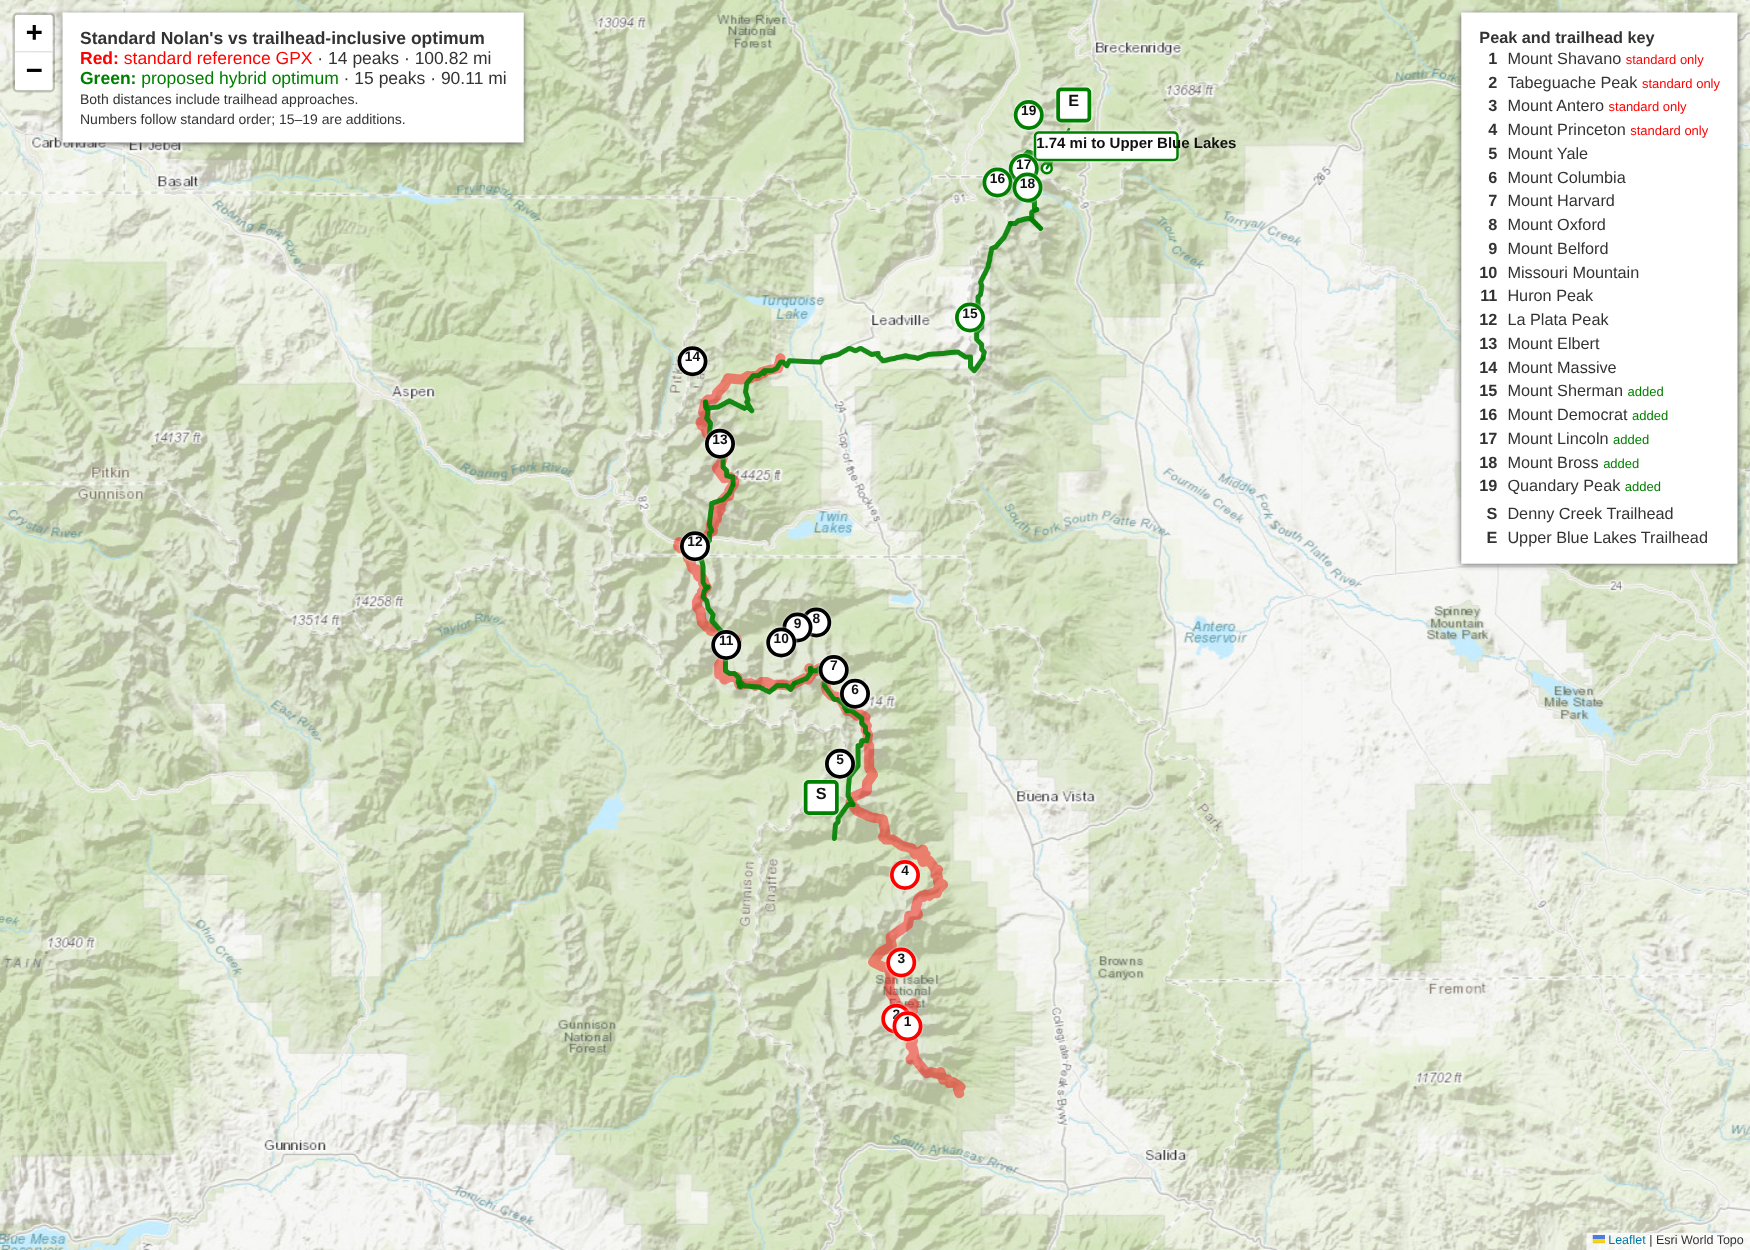
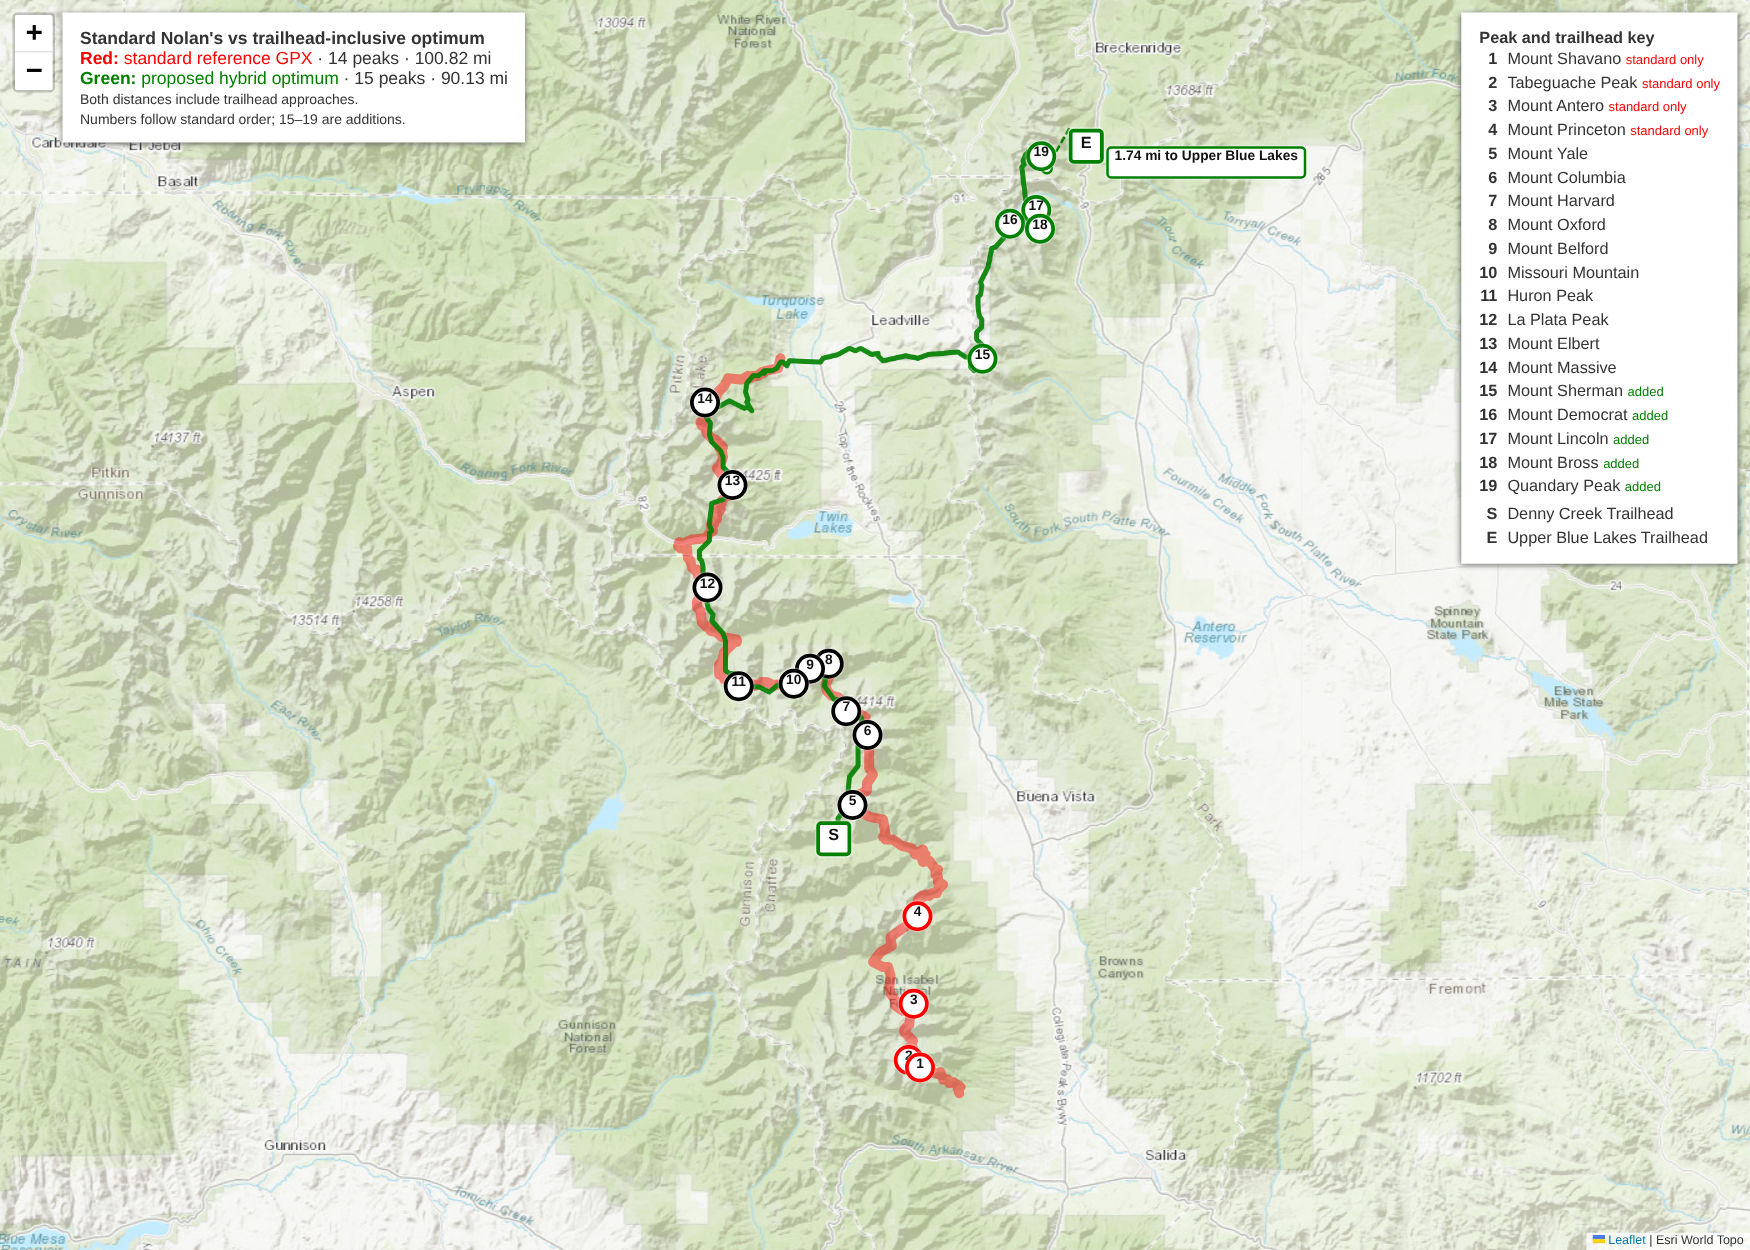
fix: route Valhalla legs through exact summit coordinates
- Add snapped-endpoint connectors to Valhalla geometry and matrix mileage
- Reprove the 15-peak trailhead optimum at 90.126929 miles
- Verify all 32 route endpoints exactly equal their summit or trailhead coordinates

diff --git a/tests/test_optimize.py b/tests/test_optimize.py
@@ -2,6 +2,7 @@ import sys
 
 import pytest
 
+from peakroutefinder.distance import haversine_miles
 from peakroutefinder.model import Peak, RouteResult
 from peakroutefinder.poc.nolans import ValhallaClient
 from peakroutefinder.poc.optimize import _route_result, choose_leg, main
@@ -17,13 +18,14 @@ def test_hybrid_choice_uses_actual_miles_not_hiking_effort() -> None:
 
 def test_valhalla_matrix_rejects_an_unreachable_pair(monkeypatch) -> None:
     client = ValhallaClient("http://127.0.0.1:18002", timeout=1.0)
-    monkeypatch.setattr(
-        client,
-        "_post",
-        lambda action, payload: {
-            "sources_to_targets": [[{"distance": 0.0}, {"distance": None}]]
-        },
-    )
+    def response(action, payload):
+        return {
+            "sources_to_targets": [[{"distance": 0.0}, {"distance": None}]],
+            "sources": payload["sources"],
+            "targets": payload["targets"],
+        }
+
+    monkeypatch.setattr(client, "_post", response)
 
     points = [Peak("A", 0.0, 0.0), Peak("B", 1.0, 1.0)]
     with pytest.raises(RuntimeError, match="no route from A to B"):
@@ -44,7 +46,9 @@ def test_valhalla_matrix_chunks_large_requests(monkeypatch) -> None:
             "sources_to_targets": [
                 [{"distance": float(row + column)} for column in range(3)]
                 for row in range(len(payload["sources"]))
-            ]
+            ],
+            "sources": payload["sources"],
+            "targets": payload["targets"],
         }
 
     monkeypatch.setattr(client, "_post", response)
@@ -52,8 +56,8 @@ def test_valhalla_matrix_chunks_large_requests(monkeypatch) -> None:
 
     assert client.matrix(points) == [
         [0.0, 1.0, 2.0],
-        [0.0, 1.0, 2.0],
-        [0.0, 1.0, 2.0],
+        [0.0, 0.0, 2.0],
+        [0.0, 1.0, 0.0],
     ]
     assert [len(call["sources"]) for call in calls] == [1, 1, 1]
 
@@ -109,3 +113,70 @@ def test_budget_above_matrix_cutoff_is_rejected(monkeypatch, capsys) -> None:
     with pytest.raises(SystemExit):
         main()
     assert "between 0 and 100" in capsys.readouterr().err
+
+
+def test_valhalla_route_touches_exact_endpoints_and_charges_snaps(
+    monkeypatch,
+) -> None:
+    client = ValhallaClient("http://127.0.0.1:18002", timeout=1.0)
+    monkeypatch.setattr(
+        client,
+        "_post",
+        lambda action, payload: {
+            "trip": {
+                "summary": {"length": 10.0},
+                "legs": [{"shape": "snapped"}],
+            }
+        },
+    )
+    monkeypatch.setattr(
+        "peakroutefinder.poc.nolans.decode_polyline",
+        lambda shape: [(0.0, 0.01), (0.0, 0.99)],
+    )
+    origin = Peak("A", 0.0, 0.0)
+    destination = Peak("B", 0.0, 1.0)
+
+    leg = client.route(origin, destination)
+
+    snap_miles = haversine_miles((0.0, 0.0), (0.0, 0.01))
+    assert leg["geometry"][0] == (origin.lat, origin.lon)
+    assert leg["geometry"][-1] == (destination.lat, destination.lon)
+    assert leg["miles"] == pytest.approx(10.0 + 2 * snap_miles)
+
+
+def test_valhalla_matrix_charges_origin_and_destination_snaps(
+    monkeypatch,
+) -> None:
+    client = ValhallaClient("http://127.0.0.1:18002", timeout=1.0)
+
+    def response(action, payload):
+        source = payload["sources"][0]
+        targets = payload["targets"]
+        return {
+            "sources_to_targets": [
+                [
+                    {
+                        "distance": (
+                            0.0 if source["name"] == target["name"] else 10.0
+                        )
+                    }
+                    for target in targets
+                ]
+            ],
+            "sources": [{"lat": source["lat"], "lon": source["lon"] + 0.01}],
+            "targets": [
+                {"lat": target["lat"], "lon": target["lon"] + 0.01}
+                for target in targets
+            ],
+        }
+
+    monkeypatch.setattr(client, "_post", response)
+    points = [Peak("A", 0.0, 0.0), Peak("B", 0.0, 1.0)]
+
+    matrix = client.matrix(points)
+
+    snap_miles = haversine_miles((0.0, 0.0), (0.0, 0.01))
+    assert matrix[0][0] == 0.0
+    assert matrix[1][1] == 0.0
+    assert matrix[0][1] == pytest.approx(10.0 + 2 * snap_miles)
+    assert matrix[1][0] == pytest.approx(10.0 + 2 * snap_miles)

diff --git a/peakroutefinder/poc/nolans.py b/peakroutefinder/poc/nolans.py
@@ -262,9 +262,28 @@ class ValhallaClient:
                 if not isinstance(response, dict):
                     raise RuntimeError("Valhalla returned an invalid matrix response")
                 rows = response["sources_to_targets"]
-                if len(rows) != 1 or len(rows[0]) != len(batch):
+                snapped_sources = response.get("sources")
+                snapped_targets = response.get("targets")
+                if (
+                    len(rows) != 1
+                    or len(rows[0]) != len(batch)
+                    or not isinstance(snapped_sources, list)
+                    or len(snapped_sources) != 1
+                    or not isinstance(snapped_targets, list)
+                    or len(snapped_targets) != len(batch)
+                ):
                     raise RuntimeError("Valhalla returned an incomplete distance row")
-                for destination_index, result in zip(batch, rows[0]):
+                snapped_origin = snapped_sources[0]
+                origin_snap_miles = haversine_miles(
+                    (origin.lat, origin.lon),
+                    (snapped_origin["lat"], snapped_origin["lon"]),
+                )
+                for destination_index, result, snapped_destination in zip(
+                    batch, rows[0], snapped_targets
+                ):
+                    if origin_index == destination_index:
+                        distances[origin_index][destination_index] = 0.0
+                        continue
                     distance = result["distance"]
                     if distance is None:
                         over_limit_miles = (
@@ -279,6 +298,18 @@ class ValhallaClient:
                                 f"to {points[destination_index].name}"
                             )
                         distance = over_limit_miles
+                    else:
+                        destination_snap_miles = haversine_miles(
+                            (
+                                points[destination_index].lat,
+                                points[destination_index].lon,
+                            ),
+                            (
+                                snapped_destination["lat"],
+                                snapped_destination["lon"],
+                            ),
+                        )
+                        distance += origin_snap_miles + destination_snap_miles
                     distances[origin_index][destination_index] = float(distance)
         return distances
 
@@ -303,12 +334,27 @@ class ValhallaClient:
         trip = response["trip"]
         if len(trip["legs"]) != 1:
             raise RuntimeError("expected exactly one Valhalla leg")
+        geometry = decode_polyline(trip["legs"][0]["shape"])
+        origin_snap_miles = haversine_miles(
+            (origin.lat, origin.lon), geometry[0]
+        )
+        destination_snap_miles = haversine_miles(
+            (destination.lat, destination.lon), geometry[-1]
+        )
+        if origin_snap_miles:
+            geometry.insert(0, (origin.lat, origin.lon))
+        if destination_snap_miles:
+            geometry.append((destination.lat, destination.lon))
         return {
             "origin": origin.name,
             "destination": destination.name,
             "status": "ok",
-            "miles": trip["summary"]["length"],
-            "geometry": decode_polyline(trip["legs"][0]["shape"]),
+            "miles": (
+                trip["summary"]["length"]
+                + origin_snap_miles
+                + destination_snap_miles
+            ),
+            "geometry": geometry,
             "warnings": trip.get("warnings", []),
         }
 

diff --git a/peakroutefinder/poc/trailheads.py b/peakroutefinder/poc/trailheads.py
@@ -268,8 +268,14 @@ def main() -> int:
     matrix = json.loads(args.matrix.read_text(encoding="utf-8"))
     if matrix["configuration"]["peaks_sha256"] != peaks_sha256:
         raise ValueError("peak matrix was built from a different CSV")
+    if not matrix["configuration"].get("exact_endpoint_connectors"):
+        raise ValueError(
+            "peak matrix lacks exact endpoint connector mileage; "
+            "rerun peakroutefinder.poc.optimize"
+        )
     configuration = {
         "peaks_sha256": peaks_sha256,
+        "exact_endpoint_connectors": True,
         "pbf_sha256": hashlib.sha256(args.pbf.read_bytes()).hexdigest(),
         "dem_zoom": args.dem_zoom,
         "dem_grid_stride": GRID_STRIDE,

diff --git a/peakroutefinder/poc/optimize.py b/peakroutefinder/poc/optimize.py
@@ -222,6 +222,7 @@ def main() -> int:
     peaks = load_peaks(args.peaks)
     configuration = {
         "peaks_sha256": hashlib.sha256(args.peaks.read_bytes()).hexdigest(),
+        "exact_endpoint_connectors": True,
         "valhalla_max_haversine": VALHALLA_MAX_HAVERSINE_MILES,
         "dem_zoom": args.dem_zoom,
         "dem_grid_stride": GRID_STRIDE,

diff --git a/poc/valhalla/README.md b/poc/valhalla/README.md
@@ -146,15 +146,15 @@ All listed solves reached `OPTIMAL` in both CP-SAT phases. Mileage is the cheape
 
 | Budget | Proven maximum fourteeners | Cheapest maximum-count route |
 |---:|---:|---:|
-| 90 mi | 15 | 85.25 mi |
-| 100 mi | **17** | **97.26 mi** |
-| 105 mi | 18 | 102.97 mi |
-| 110 mi | 19 | 109.13 mi |
-| 120 mi | 19 | 109.13 mi |
+| 90 mi | 15 | 85.26 mi |
+| 100 mi | **17** | **97.29 mi** |
+| 105 mi | 18 | 102.99 mi |
+| 110 mi | 19 | 109.15 mi |
+| 120 mi | 19 | 109.15 mi |
 
-At 100 miles, the exact upper bound is **17 peaks**: this matrix contains no 18-peak route, and therefore no route beating the haversine model's 20-peak result. The 100-mile route is Shavano → Tabeguache → Antero → Princeton → Yale → Columbia → Harvard → Oxford → Belford → Missouri → Huron → La Plata → Elbert → Sherman → Democrat → Lincoln → Bross. It uses 12 DEM legs and 4 Valhalla legs. Every reported leg uses its exact matrix mileage and sums to 97.263 miles; separate Valhalla route calls supply geometry only.
+At 100 miles, the exact upper bound is **17 peaks**: this matrix contains no 18-peak route, and therefore no route beating the haversine model's 20-peak result. The 100-mile route is Shavano → Tabeguache → Antero → Princeton → Yale → Columbia → Harvard → Oxford → Belford → Missouri → Huron → La Plata → Elbert → Sherman → Democrat → Lincoln → Bross. It uses 12 DEM legs and 4 Valhalla legs. Every reported leg uses its exact matrix mileage and sums to 97.285 miles; separate Valhalla route calls supply geometry only.
 
-An 18th peak becomes possible at 102.97 miles by adding Massive; a 19th becomes possible at 109.13 miles by adding Quandary. The maximum remains 19 at 120 miles. These are matrix results, not proof that no real-world terrain route exists beyond the evaluated DEM cutoff.
+An 18th peak becomes possible at 102.99 miles by adding Massive; a 19th becomes possible at 109.15 miles by adding Quandary. The maximum remains 19 at 120 miles. These are matrix results, not proof that no real-world terrain route exists beyond the evaluated DEM cutoff.
 
 ## Trailhead-inclusive optimization
 
@@ -168,14 +168,16 @@ python -m peakroutefinder.poc.trailheads \
 
 The POC reads every `highway=trailhead` node from the pinned Colorado OSM PBF, preserves its OSM ID, and assigns each peak its nearest trailhead by haversine distance. For every possible first and last peak, directed approach and return connectors use the shorter actual path from Valhalla or DEM. CP-SAT charges those connectors on its depot arcs, so the 100-mile budget includes getting from a trailhead to the first summit and from the last summit to a trailhead. The solver chooses the endpoints and summit order jointly rather than attaching approaches to the prior answer.
 
+Valhalla can snap an input summit or trailhead to a nearby mapped edge. Every Valhalla matrix arc and returned leg therefore includes straight haversine connectors from the exact input coordinates to those snapped endpoints. The geometry includes the same connectors, and DEM paths already start and end at the exact coordinates.
+
 ### 100-mile result
 
-CP-SAT proved a maximum of **15 peaks** with a cheapest maximum-count route of **90.106964 miles**. No 16-peak route fits within 100 miles under this terminal-cost model.
+CP-SAT proved a maximum of **15 peaks** with a cheapest maximum-count route of **90.126929 miles**. No 16-peak route fits within 100 miles under this terminal-cost model. Every one of the 32 leg endpoints exactly equals its summit or trailhead input coordinate.
 
 The route starts at **Denny Creek Trailhead**, visits Yale → Columbia → Harvard → Oxford → Belford → Missouri → Huron → La Plata → Elbert → Massive → Sherman → Democrat → Bross → Lincoln → Quandary, and ends at **Upper Blue Lakes Trailhead**. The opening Denny Creek→Yale connector is 3.124 miles and the closing Quandary→Upper Blue Lakes connector is 1.738 miles. The complete 16-leg route uses 14 DEM connectors and 2 Valhalla connectors; all 106 candidate terminal connectors succeeded without DEM errors.
 
 ![Standard Nolan's versus the trailhead-inclusive 15-peak optimum, with numbered peaks and a name key](standard-vs-optimal-100.png)
 
-Red is the standard 14-peak reference GPX (100.82 miles); green is the trailhead-inclusive 15-peak optimum (90.11 miles). Both totals include approaches. Numbers follow the standard sequence, with 15–19 marking optimizer additions. The key identifies Shavano, Tabeguache, Antero, and Princeton as standard-only, and labels the selected start (S) and end (E) trailheads.
+Red is the standard 14-peak reference GPX (100.82 miles); green is the trailhead-inclusive 15-peak optimum (90.13 miles). Both totals include approaches. Numbers follow the standard sequence, with 15–19 marking optimizer additions. The key identifies Shavano, Tabeguache, Antero, and Princeton as standard-only, and labels the selected start (S) and end (E) trailheads.
 
 This model uses the nearest tagged OSM trailhead, not necessarily the standard or safest access for a summit. Unmapped trailheads and OSM tagging gaps remain data limitations. Optimality applies to those nearest-trailhead choices and the bounded hybrid matrix.

diff --git a/README.md b/README.md
@@ -87,4 +87,4 @@ Verified examples with OR-Tools 9.15.6755:
 
 Phase 2 keeps distance acquisition behind the existing `DistanceProvider` seam. Trail support also needs unreachable-arc handling and provider-owned leg distances and geometry; the solver's two-phase objective remains unchanged.
 
-The [Nolan's Valhalla POC](poc/valhalla/README.md) provides a reproducible local router and GPX comparison. Stock OSM routed every requested leg but produced 166.92 miles versus the reference GPX's 100.82 miles. A POC-only hybrid using seven penalty-weighted GPX-backed connectors measures 104.01 miles. A no-reference heuristic using twelve direct connectors at 1.65× haversine estimates 92.65 miles. DEM-aware A* replaces straight candidates with terrain paths and measures 91.07 miles using eight DEM connectors; all remain evaluation models rather than general trail-distance providers. Applying the exact optimizer to a 53-peak Valhalla+DEM matrix proves a 17-peak, 97.26-mile maximum at a 100-mile budget; an 18th peak requires 102.97 miles within that matrix. Charging nearest-OSM-trailhead approaches and returns inside the same budget proves a 15-peak, 90.11-mile optimum from Denny Creek Trailhead to Upper Blue Lakes Trailhead.
+The [Nolan's Valhalla POC](poc/valhalla/README.md) provides a reproducible local router and GPX comparison. Stock OSM routed every requested leg but produced 166.92 miles versus the reference GPX's 100.82 miles. A POC-only hybrid using seven penalty-weighted GPX-backed connectors measures 104.01 miles. A no-reference heuristic using twelve direct connectors at 1.65× haversine estimates 92.65 miles. DEM-aware A* replaces straight candidates with terrain paths and measures 91.07 miles using eight DEM connectors; all remain evaluation models rather than general trail-distance providers. Applying the exact optimizer to a 53-peak Valhalla+DEM matrix proves a 17-peak, 97.29-mile maximum at a 100-mile budget; an 18th peak requires 102.99 miles within that matrix. Charging nearest-OSM-trailhead approaches and returns inside the same budget proves a 15-peak, 90.13-mile optimum from Denny Creek Trailhead to Upper Blue Lakes Trailhead, with geometry touching every exact summit coordinate.
